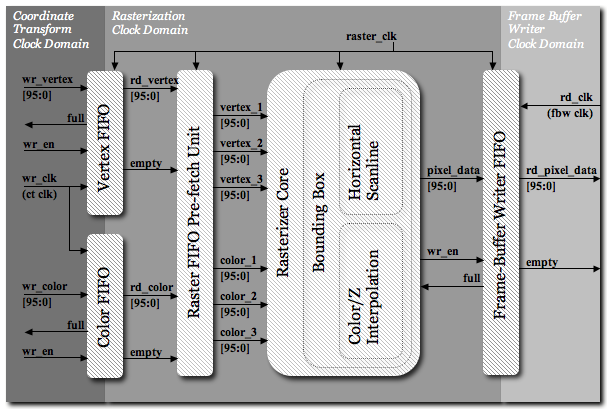
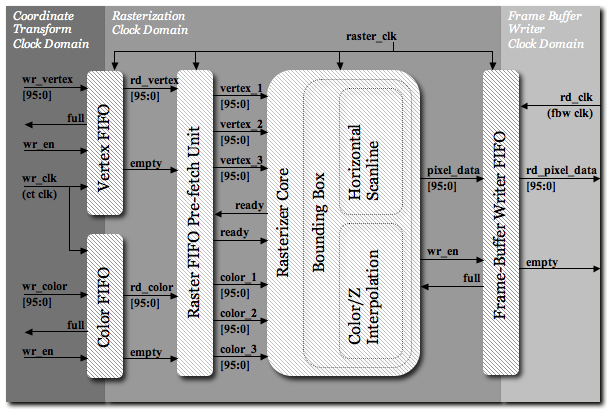
what i have 4 hours beofre

Changed region(s): [[0.3426, 0.2044, 0.4361, 0.5255], [0.3426, 0.5839, 0.4361, 0.9051], [0.3426, 0.5547, 0.4049, 0.5839]]

diff --git a/doc/Final Report/final_report.tex b/doc/Final Report/final_report.tex
@@ -337,10 +337,60 @@ When the rasterizer finishes processing a pixel that needs to be drawn to the sc
 \includegraphics[scale=.80]{raster_high_level.png}
 \end{center}
 \caption{High-level Diagram of Rasterization Module and Related Interfaces}
-\label{fig:buffer_space}
+\label{fig:raster_high_level}
 \end{figure}
 
+\subsection{Pre-Fetching}
+The high level rasterizer diagram shows the interface with the coordinate transform and frame buffer writer via FIFOs. One critical observation of the rasterizer in terms of implementation is the fact that the FIFOs are only 96 bits wide. This means on any one read, only one vertex and one color object are dequeued. Since the core calculations in the rasterizer operate on three vertices and three color objects, the rasterizer must wait until 3 reads are completed.
+
+One of the implementation decisions made was to put a pre-fetching unit between the rasterizer core and the FIFO. The pre-fetching unit completes 3 reads, and then signals to the rasterizer core that the 3 vertices and colors are ready for processing. While the rasterizer core begins processing that set of 3 vertices, the pre-fetching continues to complete 3 more reads, and then waits for a ready signal from the rasterizer before starting the process over again. This way, the cost for dequeuing 3 items from the FIFO is amortized over the time it takes for the rasterizer to iterate through the bounding box.
+
 \subsection{Bounding Box}
+The bounding box is actually only an optimization, and not necessary for correctness, although the performance increase is too great to avoid. When the rasterizer is determining where to draw a triangle (3 vertices + color objects), it could potentially scan through the entire screen and for each pixel, determine whether it should be drawn and if so what color and what depth. It could do this for every triangle and the result would be the same as using a bounding box. 
+
+However, simply by finding the minimum and maximum $x, y$ values of the entire triangle, The percentage of the screen that the rasterizer must process decreases dramatically, namely to the size of the smallest rectangle with integral coordinates that can contain the triangle being drawn. The minimum and maximum  $x,y$ values would still take a good number of floating-point comparators to resolve since there are 3 $x,y$ pairs, but luckily we don't have to use any floating-point comparators, because the calculations for horizontal scan-line plus some bit checking can easily tell us the minimum and maximum $x$ and $y$ values.
+
+\begin{figure}[h!]
+\begin{center}
+\includegraphics[scale=.68]{bounding_box.png}
+\end{center}
+\caption{Bounding Box and Half Functions}
+\label{fig:bounding_box_and_scanline}
+\end{figure}
+
+\subsection{Horizontal Scanline}
+So once given the bounding box, there is still the task of how to determine for each pixel in the bounding box, whether it belongs to the triangle or not and thus should be drawn or not? For each edge of the triangle we define a half-function. A half-function is a function that specifies a line such that, given a pair of coordinates $(x, y)$, the function evaluates non-negative for all input points on the line and on one side of the line, and negative for input points on the other side of the line. Since the triangle has 3 edges, 3 half-functions can be formulated such that if all 3 evaluate to non-negative values, the point in question is guaranteed to be inside the triangle bounded by the 3 lines of the 3 functions.
+
+For vertices $a, b$:
+
+\begin{align*}
+    f_{ab}(x,y) &=  (x_{b}-x_{a})*(y-y_{a}) - (y_{b}-y_{a})*(x-x_{a})                           \\
+    &=  (x_{b}-x_{a})*y-(y_{b}-y_{a})*x-(x_{b}-x_{a})*y_{a}-(y_{b}-y_{a})*x_{a}                           \\
+    &= constant_{1}*y-constant_{2}*x- constant_{3}
+\end{align*}
+
+Since we have a set of 3 vertices,  we have 3 such functions. For each pixel $(x,y)$ we must evaluate all three of the functions to determine whether it lies in the triangle or not. With the equation written as is, this equates to 2 multiplies and 2 subtractions per pixel. This is because $x_a, x_b, y_a, y_b$ don't change for any set of 3 vertices so any part of the equations using only those variables need only be calculated once per triangle. Notice however that with some simple mathematical manipulation, we can manipulate the function such that even less computation per pixel is required.
+
+\begin{align*}
+    f_{ab}(x,y) &= constant_{1}*y-constant_{2}*x- constant_{3}					\\
+    f_{ab}(x+1,y) &= constant_{1}*y-constant_{2}*(x+1)- constant_{3}		\\
+    f_{ab}(x+1,y) &= constant_{1}*y-constant_{2}*x+constant_{2}- constant_{3} 	\\
+    f_{ab}(x+1,y) &= f_{ab}(x,y) + constant_{2}	
+\end{align*}
+
+Thus between any pixel $(x,y)$ being processed and the next pixel $(x+1,y)$ (with respect to the positive $x$ direction), we only have to do one addition operation. We can also do the same for when we are at the edge of the bounding box and starting a new line, meaning the transition from $(x,y)$ and $(x, y+1)$:
+
+\begin{align*}
+    f_{ab}(x,y) &= constant_{1}*y-constant_{2}*x- constant_{3}					\\
+    f_{ab}(x,y+1) &= constant_{1}*(y+1)-constant_{2}*x- constant_{3}				\\
+    f_{ab}(x,y+1) &= constant_{1}*y+constant_{1}-constant_{2}*x- constant_{3} 		\\
+    f_{ab}(x,y+1) &= f_{ab}(x,y) + constant_{1}	
+\end{align*}
+
+So now we only need to compute the above constants 
+
+\subsection{Color/Z Interpolation}
+
 \subsection{Horizontal Scanline}
 \subsection{Color Interpolation}
 
